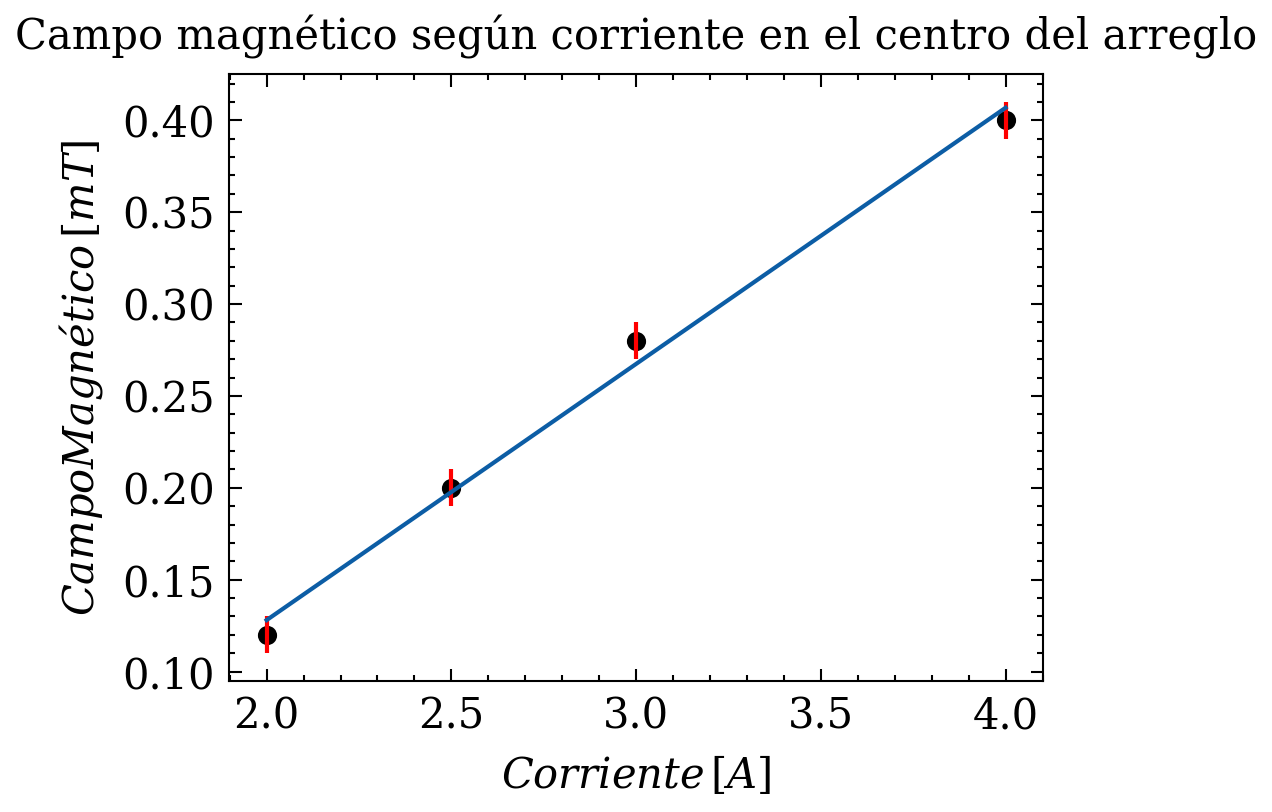
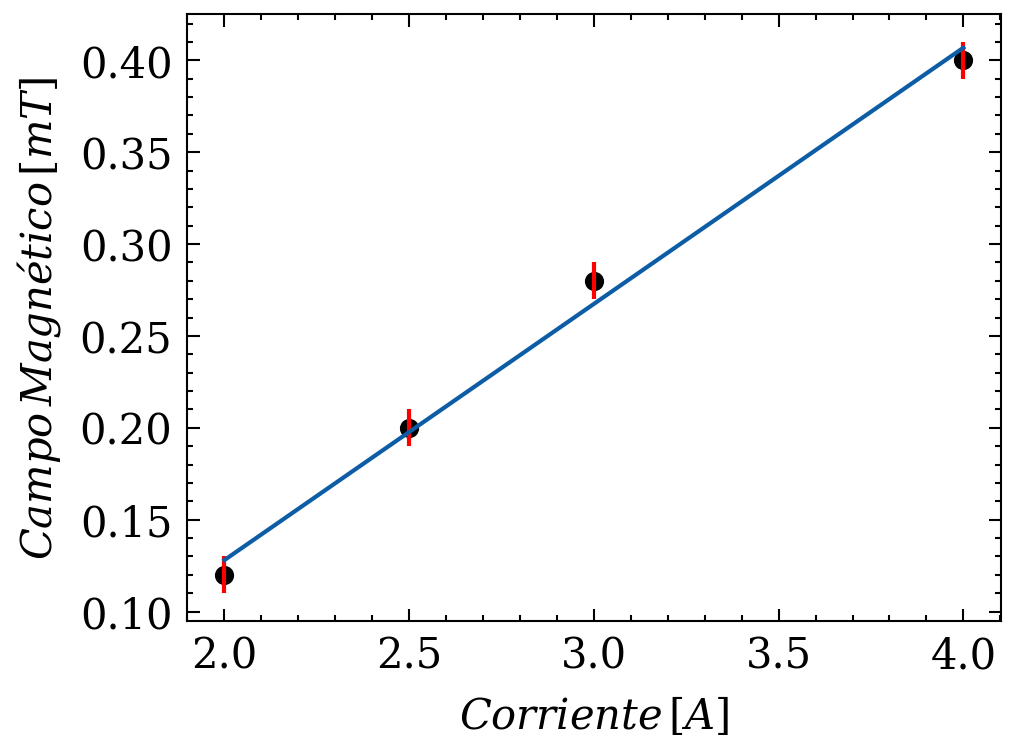
Data LabSofía

diff --git a/Exp8 - Carga Masa nuevo/carga_masa.py b/Exp8 - Carga Masa nuevo/carga_masa.py
@@ -44,31 +44,159 @@ def punto1():
     corriente = np.array([2, 2.5, 3, 4]) # x
     error_x = 0.001
     
-    campo_magnetico = [0.12, 0.2, 0.28, 0.4] # y
+    campo = [0.12, 0.2, 0.28, 0.4] # y
     error_y = 0.01
     
     
     fig = plt.figure()
     ax = fig.add_subplot()
     ax.set_xlabel(r'$Corriente\,[A]$',fontsize=10)
-    ax.set_ylabel(r'$Campo Magnético\,[mT]$',fontsize=10)
-    ax.set_title('Campo magnético según corriente en el centro del arreglo', fontsize=10)
+    ax.set_ylabel(r'$Campo\,Magnético\,[mT]$',fontsize=10)
+    #ax.set_title('Campo magnético según corriente en el centro del arreglo', fontsize=10)
     
-    ax.scatter(corriente, campo_magnetico, c='k',s=13, marker='o', label='Datos')
-    regresion = stats.linregress(corriente,campo_magnetico)
+    ax.scatter(corriente, campo, c='k',s=13, marker='o', label='Datos')
+    regresion = stats.linregress(corriente, campo)
     Y_campo = corriente*(regresion.slope) + regresion.intercept
     plt.plot(corriente, Y_campo, label='Ajuste lineal')
     
     for i in range(len(corriente)):
-        plt.errorbar(corriente[i], campo_magnetico[i], yerr=error_y, xerr=error_x, fmt='r', ecolor='r')
+        plt.errorbar(corriente[i], campo[i], yerr=error_y, xerr=error_x, fmt='r', ecolor='r')
     
-    print(f"B = {round(regresion.slope,3)}*I + {round(regresion.intercept,3)}")
-    print(f"incert. pendiete = {regresion.stderr},  incert. intercepto = {regresion.intercept_stderr}")
+    print(f"B = {round(regresion.slope,4)}*I + {round(regresion.intercept,3)}")
+    print(f"incert. pendiente = {round(regresion.stderr,4)},  incert. intercepto = {round(regresion.intercept_stderr,4)}")
     #plt.legend()
     plt.savefig('carga_masa-punto1', dpi=300, bbox_inches='tight')
+    #plt.show()
+
+    for i in range (1, 100):
+        print(f'\ni= {i}')
+        print(f"mag = {campo_magnetico(i)*1000}")
+        print(f"exp = {campo_experimental(i)}")
+    
+def campo_experimental(I):
+    return (0.1394 * I) - 0.151 # da en mT
+
+def campo_magnetico(I):    
+    miu_0 = 4*np.pi*(1e-7) 
+    print(miu_0)
+    N = 154
+    R = 0.2
+    resultado = miu_0*8*N/(np.sqrt(125)*R)
+    print(resultado)
+    print(resultado*1000) 
+    return resultado * I # da en T
+    
+def campo_magnetico1(I,n,R,z,h):
+    
+    miu_0 = 4*np.pi*(1e-7)  # * 1000 #para que sean mT en vez de T
+    n = 154
+    R = 0.2
+    
+    return (miu_0*I*n*R*R / 2) * ( (1/((R*R+(z+h/2)**2)**(3/2))) + (1/((R*R+(z-h/2)**2)**(3/2))) )
+
+def punto2():
+    voltaje4 = np.array([100
+    ,125
+    ,150
+    ,175
+    ,200
+    ,225
+    ,250
+    ,275])
+
+    Bcuad4 = np.array([2.42736E-08,
+    4.29443E-08,
+    6.54746E-08,
+    8.20593E-08,
+    1.05872E-07,
+    1.2278E-07,
+    1.43035E-07,
+    1.59241E-07
+    ])
+    
+    voltaje6 = np.array([100,
+    125,
+    150,
+    175,
+    200,
+    225,
+    250,
+    275,
+    ])
+    
+    Bcuad6 = np.array([7.05398E-09,
+    6.47194E-10,
+    7.17172E-09,
+    1.42889E-08,
+    2.09173E-08,
+    2.88049E-08,
+    3.3731E-08,
+    3.90458E-08,
+    ])
+
+    voltaje8 = np.array([150,
+    175,
+    200,
+    225,
+    250,
+    275,
+    ])
+    
+    Bcuad8 = np.array([4.22796E-10,
+    2.34663E-09,
+    4.43077E-09,
+    6.93756E-09,
+    9.72709E-09,
+    1.33065E-08,
+    ])
+
+    voltaje10 = np.array([150,
+    175,
+    200,
+    225,
+    250,
+    275,
+    ])
+    
+    Bcuad10 = np.array([1.02131E-10,
+    2.7332E-11,
+    5.45222E-10,
+    1.49645E-09,
+    2.21351E-09,
+    3.38724E-09,
+    ])
+    
+    error_y = 1
+    error_x = 0.01
+
+    fig = plt.figure()
+    ax = fig.add_subplot()
+    ax.set_xlabel(r'$B^2\,[T^2]$',fontsize=10)
+    ax.set_ylabel(r'$Voltaje\,[V]$',fontsize=10)
+
+    ax.scatter(Bcuad4, voltaje4, c='blue',s=13, marker='o')
+    regresion4 = stats.linregress(Bcuad4, voltaje4)
+    Y_4 = Bcuad4*(regresion4.slope) + regresion4.intercept
+    plt.plot(Bcuad4, Y_4, label='Ajuste lineal', color='blue')
+    
+    ax.scatter(Bcuad6, voltaje6, c='pink',s=13, marker='o')
+    regresion6 = stats.linregress(Bcuad6, voltaje6)
+    Y_6 = Bcuad6*(regresion6.slope) + regresion6.intercept
+    plt.plot(Bcuad6, Y_6, label='Ajuste lineal', color = 'pink')
+    
+    ax.scatter(Bcuad8, voltaje8, c='red',s=13, marker='o')
+    regresion8 = stats.linregress(Bcuad8, voltaje8)
+    Y_8 = Bcuad8*(regresion8.slope) + regresion8.intercept
+    plt.plot(Bcuad8, Y_8, label='Ajuste lineal', color = 'red')
+    
+    ax.scatter(Bcuad10, voltaje10, c='green',s=13, marker='o')
+    regresion10 = stats.linregress(Bcuad10, voltaje10)
+    Y_10 = Bcuad10*(regresion10.slope) + regresion10.intercept
+    plt.plot(Bcuad10, Y_10, label='Ajuste lineal', color = 'green')
+    
+    plt.savefig('carga_masa-punto2', dpi=300, bbox_inches='tight')
+
     plt.show()
-
-
 
 if __name__ == "__main__":
     main()

diff --git a/ExpSofía - Doble rendija/doble rendija.py b/ExpSofía - Doble rendija/doble rendija.py
@@ -1,0 +1,82 @@
+#!/usr/bin/env python3
+# -*- coding: utf-8 -*-
+"""
+Created on Tue Apr 12 13:19:34 2022
+
+@author: camilo
+"""
+import pandas as pd
+import numpy as np
+import matplotlib.pyplot as plt
+from scipy.optimize import curve_fit
+
+#Actividad 1
+
+xval1 = np.array([0,1,2])
+yval1 = np.array([0.01, 1.24, 2.06])
+ylin1 = (yval1)
+
+linea = np.polyfit(xval1, ylin1,1)
+grado2 = np.polyfit(xval1, ylin1, 2)
+
+x = np.linspace(0,2.5,100)
+plt.scatter(xval1, ylin1, color="k")
+plt.plot(x, linea[0]*x+linea[1])
+plt.plot(x, grado2[0]*x**2 + grado2[1]*x + grado2[2])
+plt.errorbar(xval1, ylin1, yerr = 0.005, fmt=" ")
+
+plt.xlabel("Número de rendijas")
+plt.xticks([0,1,2])
+plt.ylabel("Voltaje (V)")
+
+#actividad 2
+#doble rendija
+
+doble = pd.read_csv("doble rendija.csv")
+angulo = np.around(doble["theta (rad)"].to_numpy(), 5)
+voltaje = doble["Voltaje (V)"].to_numpy()
+plt.figure()
+plt.scatter(angulo,voltaje, color='k') 
+plt.errorbar(angulo, voltaje, xerr=0.00001, yerr = 0.005, fmt=" ")
+
+thetax = np.linspace(-0.005,0.005,100)
+
+def f1 (theta,A,B,C):
+    return A*(np.cos(B*np.sin(theta)))**2 * ((np.sin(C*np.sin(theta)))/(C*np.sin(theta)))**2
+
+popt,pcov = curve_fit(f1,angulo, voltaje, p0=[2.5,2300,500])
+bounds=([1,2000,500],[3,3000,600])
+yajuste = f1(thetax, popt[0], popt[1], popt[2])
+plt.plot(thetax,yajuste)
+plt.xlabel("Ángulo (rad)")
+plt.ylabel("Voltaje (V)")
+print(popt) #A, B y C (importan B y C)
+print("")
+print(np.sqrt(np.diag(pcov))) #Incertidumbres A, B y C
+print("")
+print("")
+
+#una rendija
+
+plt.figure()
+simple = pd.read_csv("datos una rendija.csv")
+ang = np.around(simple["theta"].to_numpy(),5)
+volt = simple["voltaje"].to_numpy()
+plt.scatter(ang, volt, color="k")
+
+angx = np.linspace(-0.008, 0.008, 100)
+ 
+def f2 (theta, A, B):
+    return A*(np.sin(B*np.sin(theta)))**2 / (B*np.sin(theta))**2
+
+ajuste, cov = curve_fit(f2, ang, volt, p0=[0.25, 300])
+print(ajuste) #A, B (importa B)
+print("")
+print(np.sqrt(np.diag(cov))) #Incertidumbres A y B
+
+plt.plot(angx, f2(angx, ajuste[0], ajuste[1]))
+plt.xlabel("Ángulo (rad)")
+plt.ylabel("Voltaje (V)")
+
+
+

diff --git a/ExpSofía - Doble rendija/ajuste_doble_rendija.py b/ExpSofía - Doble rendija/ajuste_doble_rendija.py
@@ -1,0 +1,60 @@
+# -*- coding: utf-8 -*-
+"""
+Created on Tue May 17 22:44:02 2022
+
+@author: SNB
+"""
+
+import pandas as pd
+import numpy as np
+import matplotlib.pyplot as plt
+from scipy.optimize import curve_fit
+
+
+#Actividad 2
+
+#una rendija
+
+plt.figure()
+simple = pd.read_excel("doblerendija.xlsx")
+micrometros = np.around(simple["micrometros1"].to_numpy(),5)[:39]
+metros = micrometros/1000000
+voltaje = np.around(simple["voltaje"].to_numpy(),5)[:39]
+
+voltaje *= 0.3
+metros*=2
+def toAngle(metros, L):
+    return np.arctan(metros/L)
+
+
+#for l in np.linspace(0.28, 0.4, 3):
+    #print(l)
+    #angles = toAngle(metros, l)
+    #print(angles)
+
+plt.scatter(metros, voltaje, color="k")
+
+
+#metros = toAngle(metros, 0.3)
+
+print(metros)
+
+
+angx = np.linspace(-0.008, 0.008, 100)
+
+def f2 (theta, A, B):
+    return A*(np.sin(B*np.sin(theta)))**2 / (B*np.sin(theta))**2
+
+# B = pi*a/lambda
+plt.plot(angx, f2(angx, 0.25, 390))
+
+ajuste, cov = curve_fit(f2, metros, voltaje , p0=[0.25, 300])
+print(ajuste) #A, B (importa B)
+print("")
+print(np.sqrt(np.diag(cov))) #Incertidumbres A y B
+
+
+plt.plot(angx, f2(angx, ajuste[0], ajuste[1]))
+plt.xlabel("Ángulo (rad)")
+plt.ylabel("Voltaje (V)")
+
